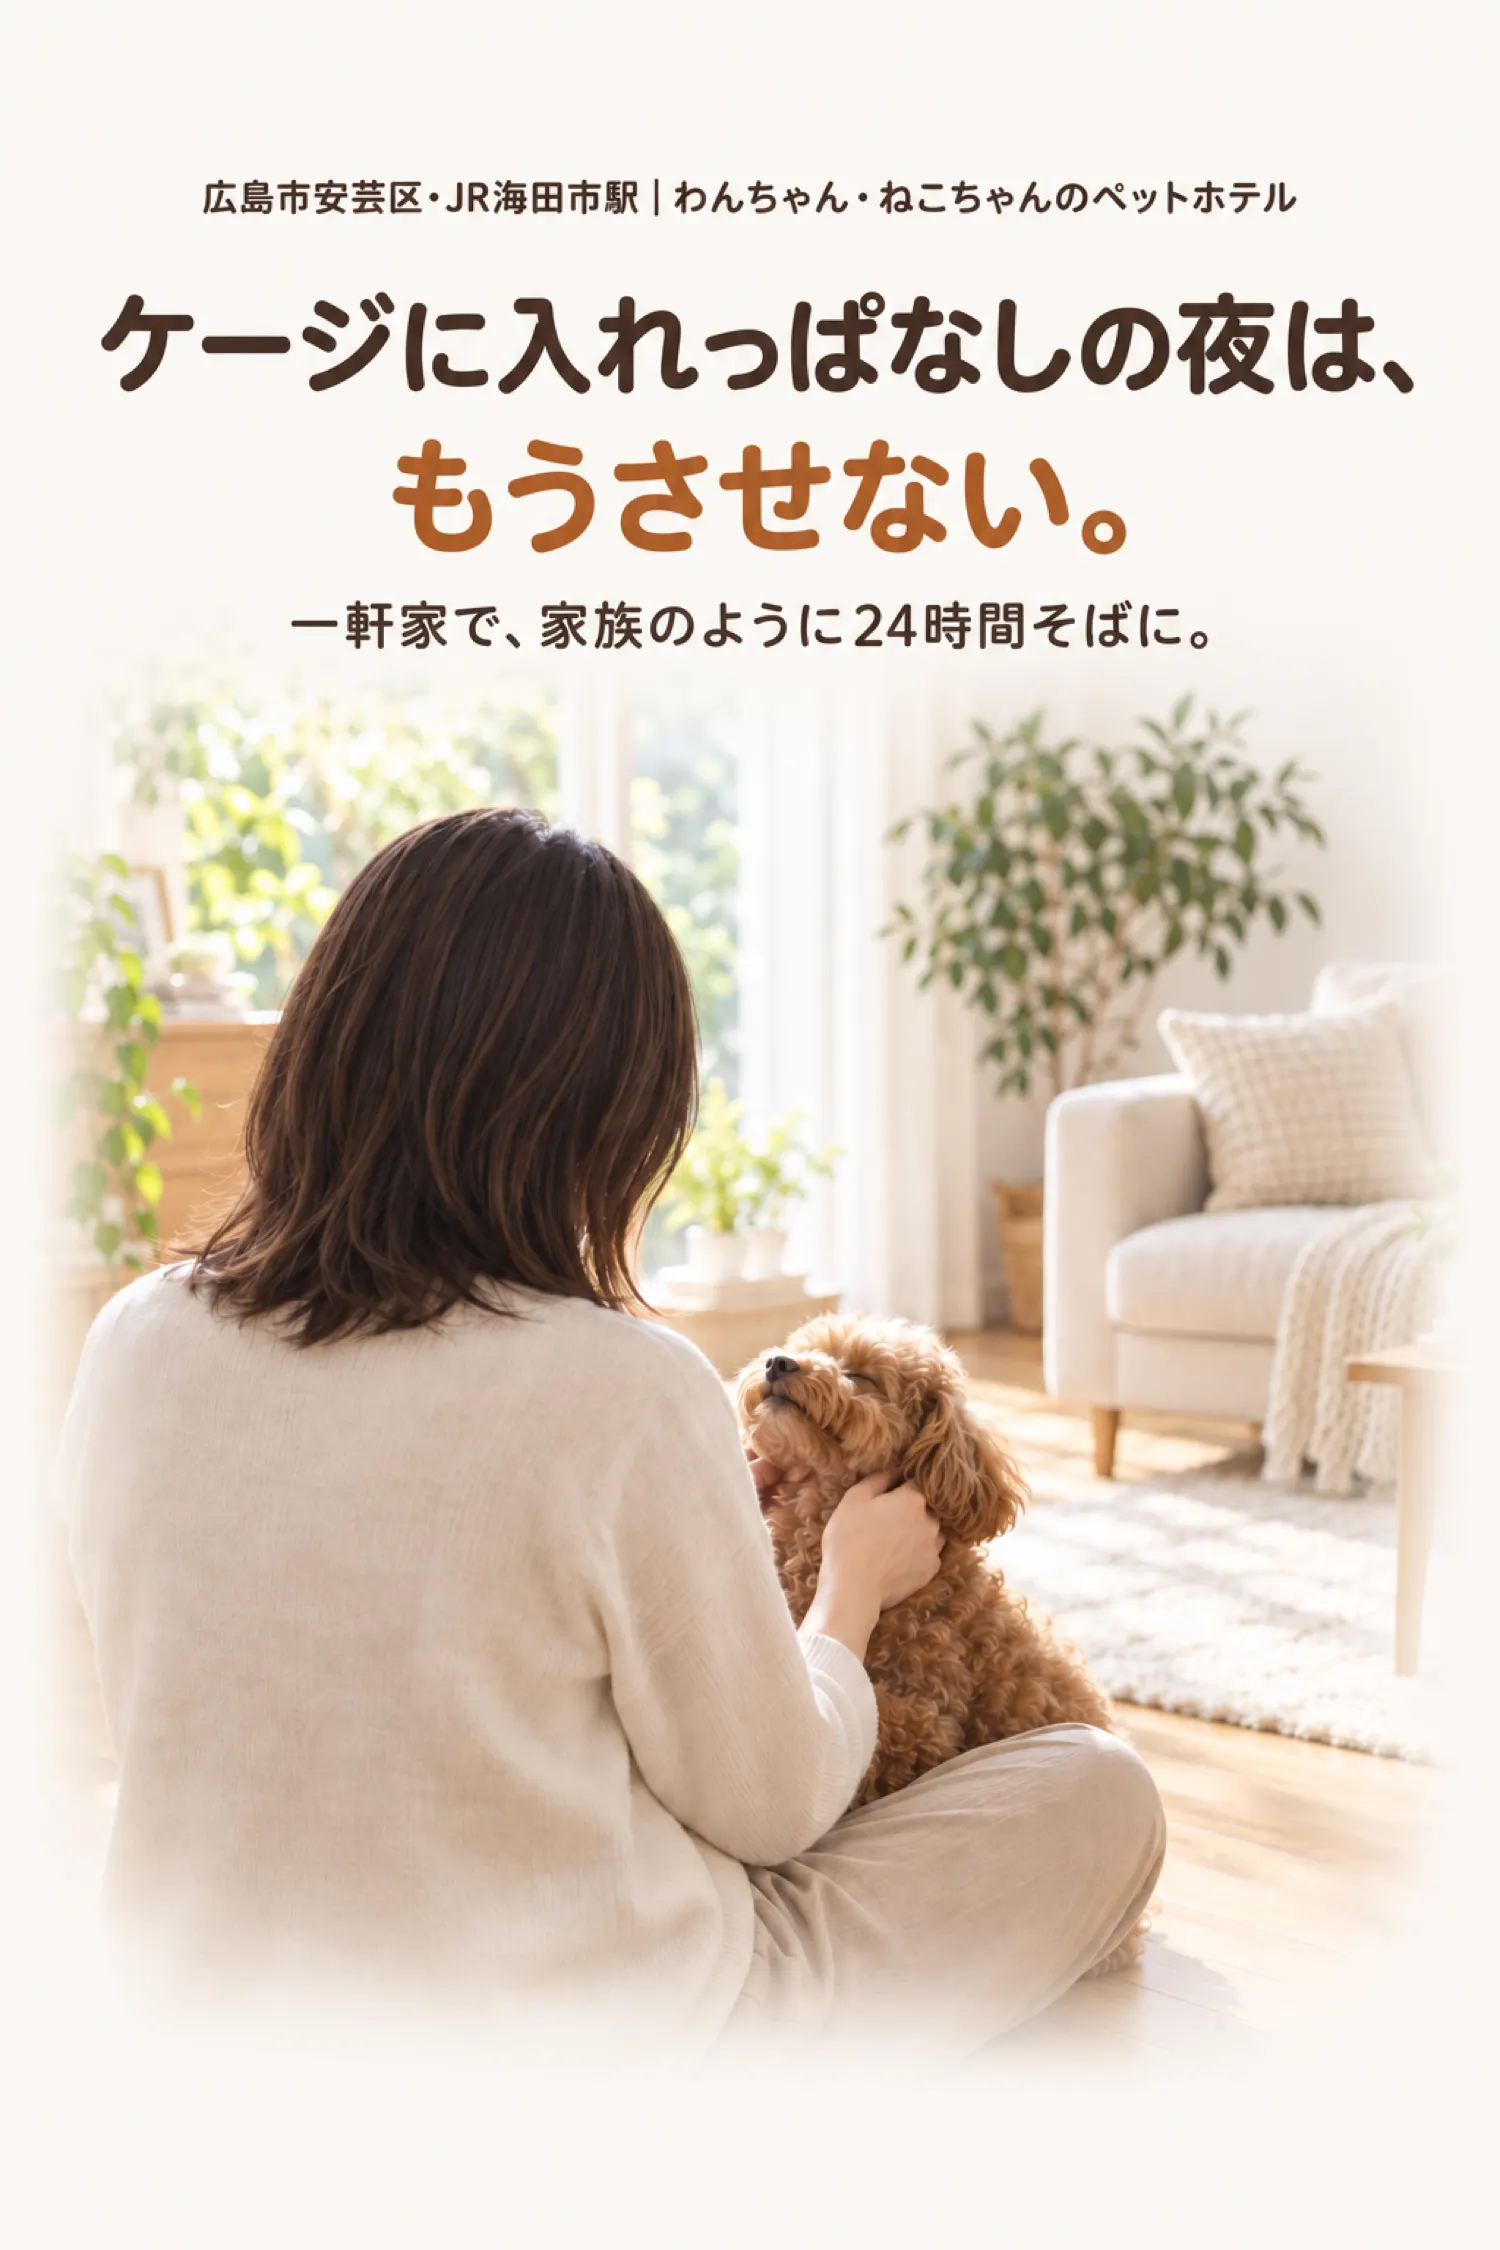
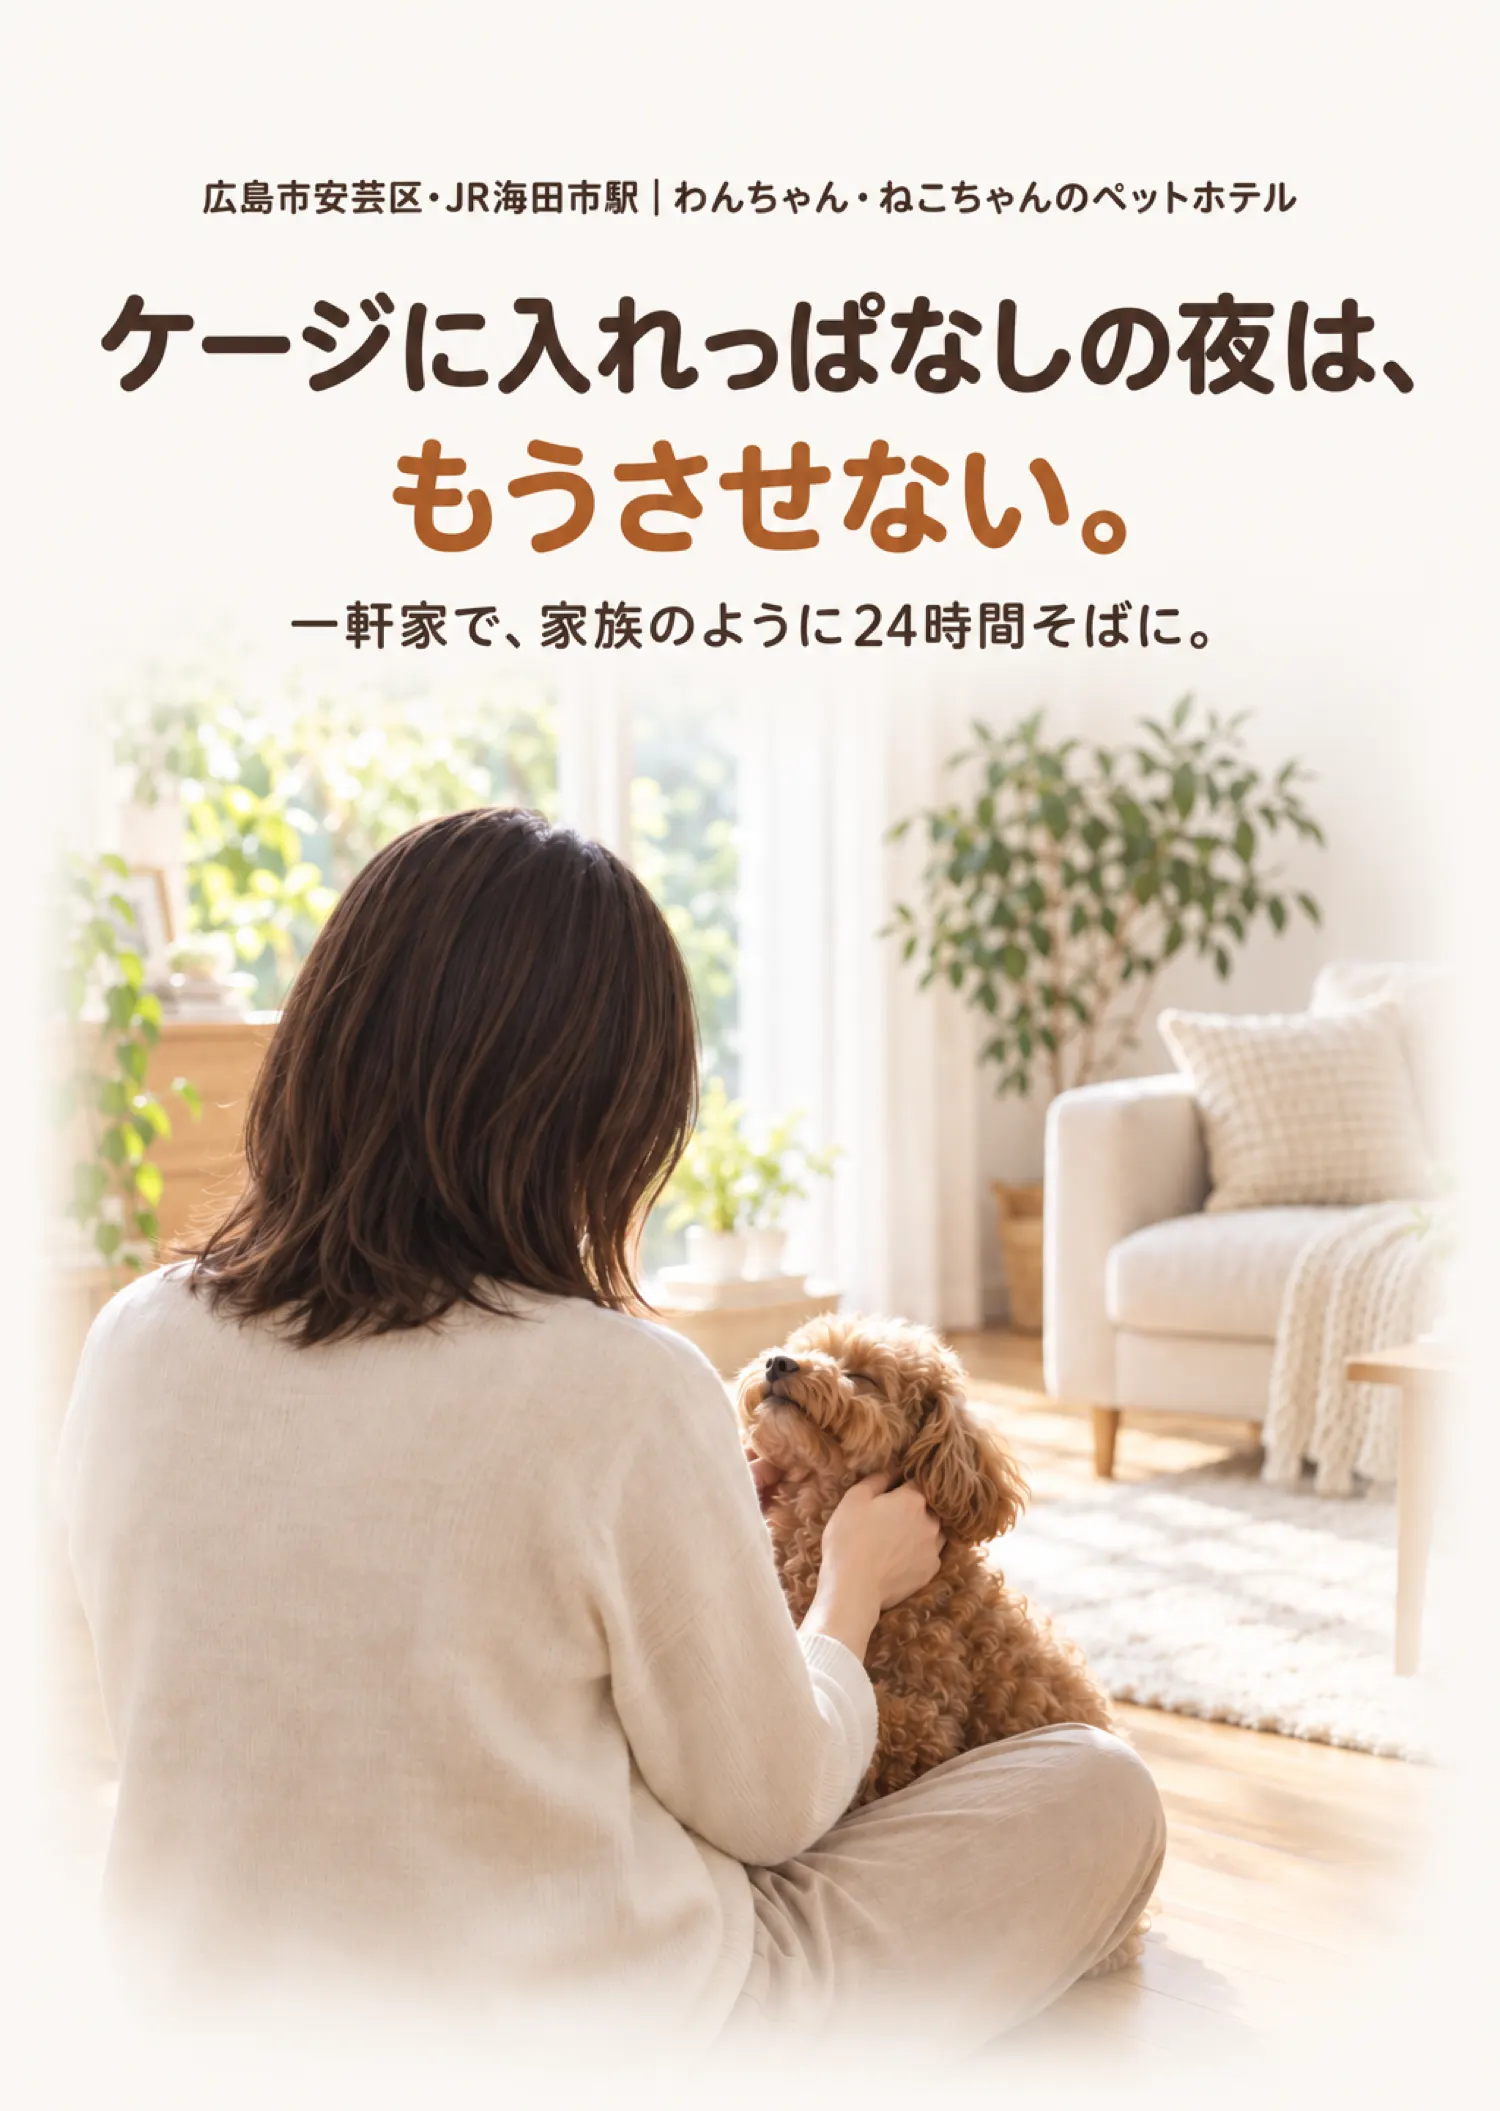
update

diff --git a/index.html b/index.html
@@ -35,7 +35,7 @@
   <link rel="preconnect" href="https://fonts.googleapis.com">
   <link rel="preconnect" href="https://fonts.gstatic.com" crossorigin>
   <link href="https://fonts.googleapis.com/css2?family=Zen+Maru+Gothic:wght@500;700&display=swap" rel="stylesheet">
-  <link rel="preload" as="image" href="img/01-fv.webp?v=2" fetchpriority="high">
+  <link rel="preload" as="image" href="img/01-fv.webp?v=3" fetchpriority="high">
   <link rel="stylesheet" href="css/style.css?v=1">
 </head>
 <body>
@@ -56,7 +56,7 @@
         <img class="fv-logo" src="img/logo.png" alt="KOKOHOREわんにゃん" width="120" height="120" onerror="this.hidden=true">
         <p class="rating" aria-label="Google口コミ評価"><b>★<span data-text="rating">4.6</span></b>Google口コミ<small data-text="ratingDate">2026年8月時点</small></p>
         <div class="photo-wrap">
-          <img src="img/01-fv.webp?v=2" width="1500" height="2250" fetchpriority="high"
+          <img src="img/01-fv.webp?v=3" width="1500" height="2111" fetchpriority="high"
                alt="広島市安芸区・JR海田市駅｜わんちゃん・ねこちゃんのペットホテル。ケージに入れっぱなしの夜は、もうさせない。一軒家で、家族のように24時間そばに。">
           <span class="img-note">※写真はイメージです</span>
         </div>
